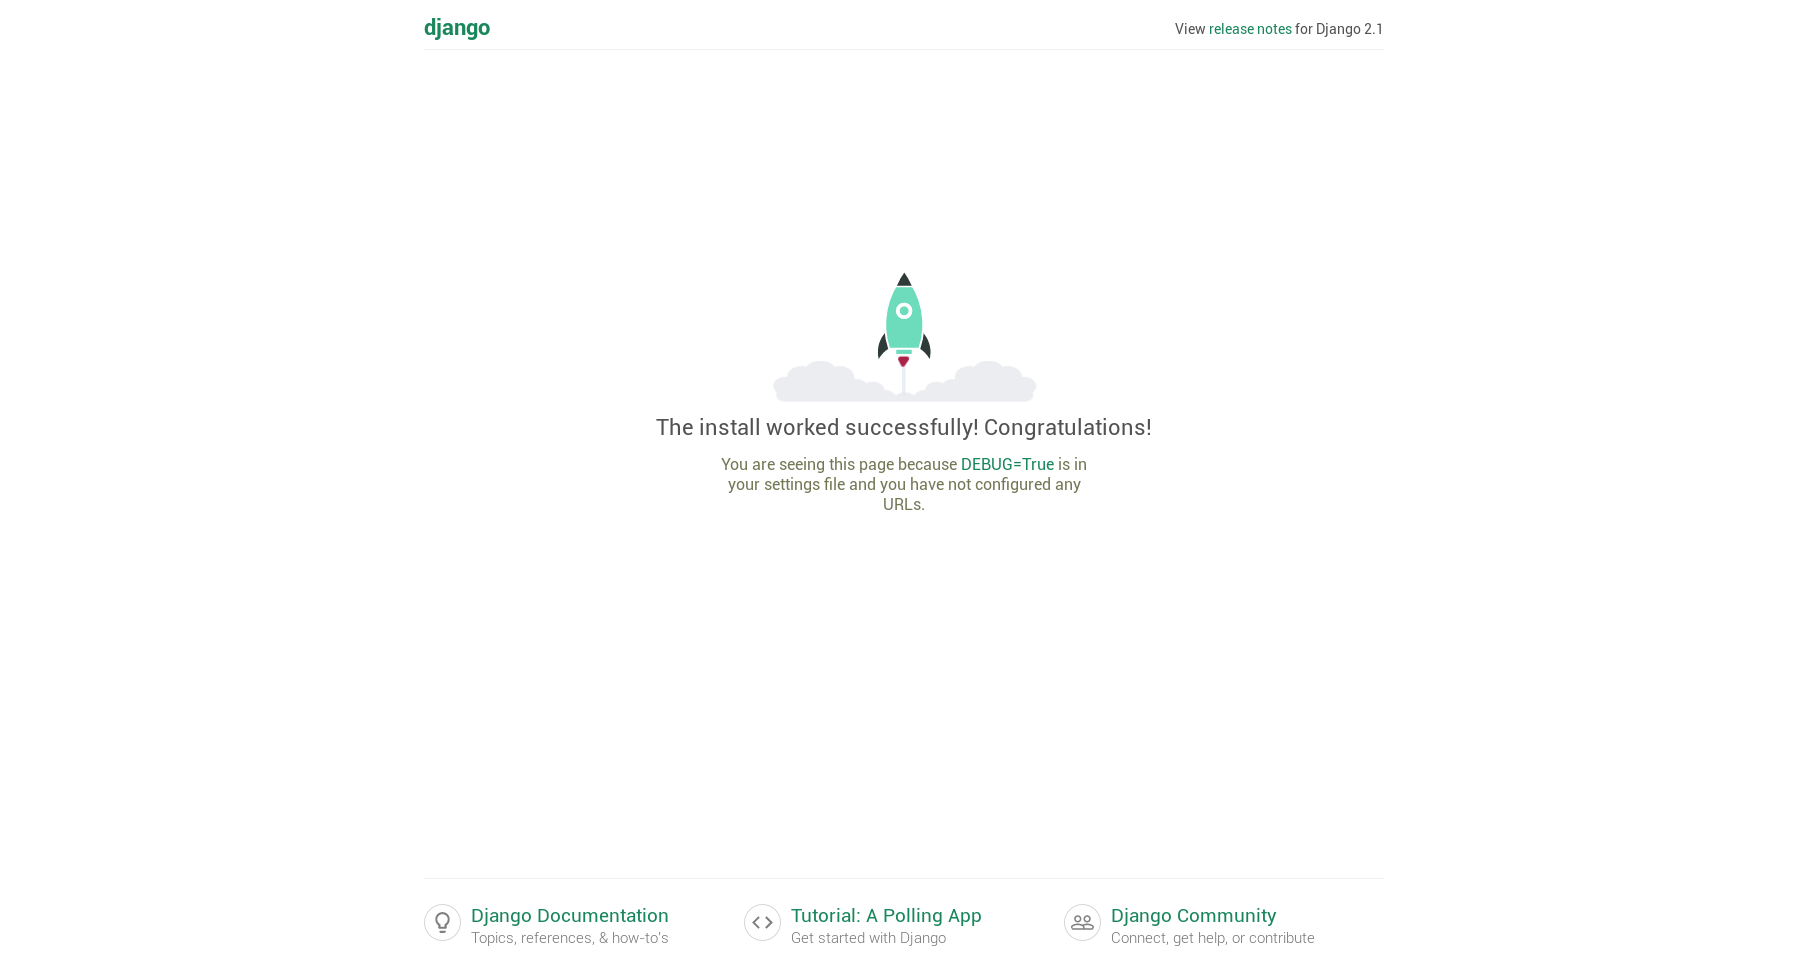
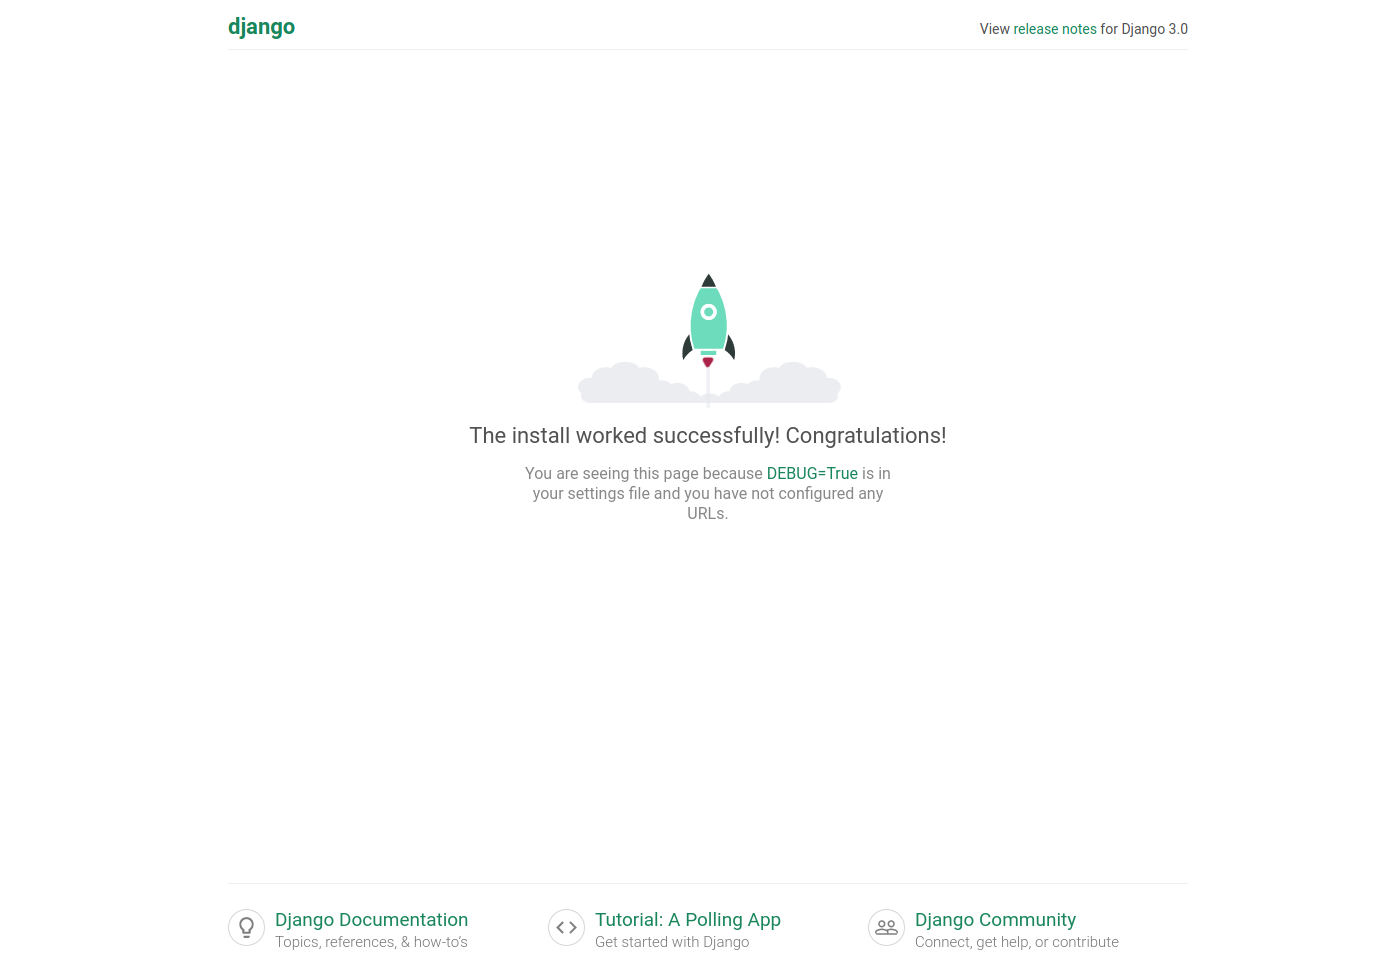
Update post creating a personal blog part 1: setting up the environment

diff --git a/posts/creating-a-personal-blog-part-1-setting-up-the-environment/source code/Blog/myblog/myblog/settings.py b/posts/creating-a-personal-blog-part-1-setting-up-the-environment/source code/Blog/myblog/myblog/settings.py
@@ -1,13 +1,13 @@
 """
 Django settings for myblog project.
 
-Generated by 'django-admin startproject' using Django 2.1.7.
+Generated by 'django-admin startproject' using Django 3.0.4.
 
 For more information on this file, see
-https://docs.djangoproject.com/en/2.1/topics/settings/
+https://docs.djangoproject.com/en/3.0/topics/settings/
 
 For the full list of settings and their values, see
-https://docs.djangoproject.com/en/2.1/ref/settings/
+https://docs.djangoproject.com/en/3.0/ref/settings/
 """
 
 import os
@@ -17,10 +17,10 @@ BASE_DIR = os.path.dirname(os.path.dirname(os.path.abspath(__file__)))
 
 
 # Quick-start development settings - unsuitable for production
-# See https://docs.djangoproject.com/en/2.1/howto/deployment/checklist/
+# See https://docs.djangoproject.com/en/3.0/howto/deployment/checklist/
 
 # SECURITY WARNING: keep the secret key used in production secret!
-SECRET_KEY = 'i@=h6&lk0y$*^_sk=56(kl7v)%435cb69a!eea6zt4hd2+r(f#'
+SECRET_KEY = '_m3-39(6=_x%9x%n%5c1jyc=8tfp(c+f$2(%b7v#+#)=2p+b3f'
 
 # SECURITY WARNING: don't run with debug turned on in production!
 DEBUG = True
@@ -71,7 +71,7 @@ WSGI_APPLICATION = 'myblog.wsgi.application'
 
 
 # Database
-# https://docs.djangoproject.com/en/2.1/ref/settings/#databases
+# https://docs.djangoproject.com/en/3.0/ref/settings/#databases
 
 DATABASES = {
     'default': {
@@ -82,7 +82,7 @@ DATABASES = {
 
 
 # Password validation
-# https://docs.djangoproject.com/en/2.1/ref/settings/#auth-password-validators
+# https://docs.djangoproject.com/en/3.0/ref/settings/#auth-password-validators
 
 AUTH_PASSWORD_VALIDATORS = [
     {
@@ -101,7 +101,7 @@ AUTH_PASSWORD_VALIDATORS = [
 
 
 # Internationalization
-# https://docs.djangoproject.com/en/2.1/topics/i18n/
+# https://docs.djangoproject.com/en/3.0/topics/i18n/
 
 LANGUAGE_CODE = 'en-us'
 
@@ -115,6 +115,6 @@ USE_TZ = True
 
 
 # Static files (CSS, JavaScript, Images)
-# https://docs.djangoproject.com/en/2.1/howto/static-files/
+# https://docs.djangoproject.com/en/3.0/howto/static-files/
 
 STATIC_URL = '/static/'

diff --git a/posts/creating-a-personal-blog-part-1-setting-up-the-environment/source code/Blog/myblog/manage.py b/posts/creating-a-personal-blog-part-1-setting-up-the-environment/source code/Blog/myblog/manage.py
@@ -1,8 +1,10 @@
 #!/usr/bin/env python
+"""Django's command-line utility for administrative tasks."""
 import os
 import sys
 
-if __name__ == '__main__':
+
+def main():
     os.environ.setdefault('DJANGO_SETTINGS_MODULE', 'myblog.settings')
     try:
         from django.core.management import execute_from_command_line
@@ -13,3 +15,7 @@ if __name__ == '__main__':
             "forget to activate a virtual environment?"
         ) from exc
     execute_from_command_line(sys.argv)
+
+
+if __name__ == '__main__':
+    main()

diff --git a/posts/creating-a-personal-blog-part-1-setting-up-the-environment/source code/Blog/myblog/myblog/asgi.py b/posts/creating-a-personal-blog-part-1-setting-up-the-environment/source code/Blog/myblog/myblog/asgi.py
@@ -1,0 +1,16 @@
+"""
+ASGI config for myblog project.
+
+It exposes the ASGI callable as a module-level variable named ``application``.
+
+For more information on this file, see
+https://docs.djangoproject.com/en/3.0/howto/deployment/asgi/
+"""
+
+import os
+
+from django.core.asgi import get_asgi_application
+
+os.environ.setdefault('DJANGO_SETTINGS_MODULE', 'myblog.settings')
+
+application = get_asgi_application()

diff --git a/posts/creating-a-personal-blog-part-1-setting-up-the-environment/source code/Blog/myblog/myblog/urls.py b/posts/creating-a-personal-blog-part-1-setting-up-the-environment/source code/Blog/myblog/myblog/urls.py
@@ -1,7 +1,7 @@
 """myblog URL Configuration
 
 The `urlpatterns` list routes URLs to views. For more information please see:
-    https://docs.djangoproject.com/en/2.1/topics/http/urls/
+    https://docs.djangoproject.com/en/3.0/topics/http/urls/
 Examples:
 Function views
     1. Add an import:  from my_app import views

diff --git a/posts/creating-a-personal-blog-part-1-setting-up-the-environment/source code/Blog/myblog/myblog/wsgi.py b/posts/creating-a-personal-blog-part-1-setting-up-the-environment/source code/Blog/myblog/myblog/wsgi.py
@@ -4,7 +4,7 @@ WSGI config for myblog project.
 It exposes the WSGI callable as a module-level variable named ``application``.
 
 For more information on this file, see
-https://docs.djangoproject.com/en/2.1/howto/deployment/wsgi/
+https://docs.djangoproject.com/en/3.0/howto/deployment/wsgi/
 """
 
 import os

diff --git a/posts/creating-a-personal-blog-part-1-setting-up-the-environment/Creating A Personal Blog Part 1: Setting Up The Environment.md b/posts/creating-a-personal-blog-part-1-setting-up-the-environment/Creating A Personal Blog Part 1: Setting Up The Environment.md
@@ -11,7 +11,7 @@ this post on. Before I continue, let me answer a few questions first.
 Why would you want to develop your own personal blog? Why would you want to have a personal blog anyway? You may wish so
 for many reasons. Sharing your ideas, and knowledge, poetry that you enjoy or write yourself, 
 places you travel to, things you cook, and etc. Well I have to admit that there are ton of social media platforms, where 
-you can do all of the above, and share it with your friends easily. However, having a personal blog is ... It is just 
+you can do all of the above, and share it with your friends easily. However, having a personal blog is ... Well, it is just 
 personal. 
 
 Let me put it in this way. Using a social media platform is similar to living in a building with lots of apartments inside.
@@ -40,13 +40,13 @@ guide for your own situation. Let's begin our journey.
 ## What You Should Expect
 
 In the end of this series, you should have a webpage very similar to the one you are viewing currently. We will use
-Django (version 2.1.7), and Python (3.6) to develop the blog locally. Then we will use Nginx + Gunicorn to deploy the 
+Django (version 3.0.4), and Python (3.8) to develop the blog locally. Then we will use Nginx + Gunicorn to deploy the 
 blog on a Google Cloud Instance. We will get to all of these in time. However, lets first setup our environment to start
 the local development.
 
 ## Setting Up The Environment
 
-I will be using Python 3.6 and Django 2.1.7, and will be developing on Linux platform (Arch Linux 5.0.1). 
+I will be using Python 3.8 and Django 3.0.4, and will be developing on Linux platform (Arch Linux 5.5.7). 
 Any linux environment should do for this series. I expect that you are able to adjust this tutorial for your needs, 
 if you are using Windows.
 
@@ -54,21 +54,21 @@ First step is to determine whether you have python 3 installed on your system. R
 
 `python3 --version`
 
-If the output is **`Python 3.6.x`** then you are good to go. If not you need to install python 3 to your system. You can
+If the output is **`Python 3.8.x`** then you are good to go. If not you need to install python 3 to your system. You can
 follow this [guide](https://docs.python-guide.org/starting/install3/linux/) for doing so on Ubuntu. 
 Also feel free to google it for the operating system you are working on. In the end make sure you have Python 3.6 
-(3.7 is also fine), by running `python3 --version` and getting the **`Python 3.6`** output.  
+(3.6.x or 3.7.x is also fine), by running `python3 --version` and getting the **`Python 3.8.x`** output.  
 
 Now similarly we need to install pip3. Pip is a package manager for python. It makes installing, and maintaining python
 packages extremely easy. So go ahead and try `pip3 --version` on the command line. If you get an output with 
-`(python 3.6)` in the end, you are good to go. Otherwise you need to install pip3 to your system as well. Again here is a 
+`(python 3.8)` in the end, you are good to go. Otherwise you need to install pip3 to your system as well. Again here is a 
 [guide](https://linuxize.com/post/how-to-install-pip-on-ubuntu-18.04/) showing how to do so on Ubuntu.
 
 ### Virtualenv and Virtualenvwrapper
 Virtualenv is a tool to create virtual environments for python. If you run `pip3 list` you will see all of the packages
 installed in your system. When starting a new python project, it is highly recommended to create virtual environments,
 so that you can install packages that are specific to your project, which might be even different versions of the 
-packages installed in your system. In this way, your packages for your project can be kept separate from each other.
+packages installed in your system. In this way, your packages for your projects can be kept separate from each other.
 Virtualenv Wrapper is a tool to easily create and manage virtual environments. We need to install both of these packages
 using pip. So go ahead and install [virtualenv](https://pypi.org/project/virtualenv/) and 
 [virtualenvwrapper](https://virtualenvwrapper.readthedocs.io/en/latest/index.html)
@@ -125,7 +125,7 @@ the virtual environment, run `workon blog-env`, and you should see (blog-env) in
 that you are inside this virtual environment, every time you are executing python files related to this project.
 
 Just to make sure, check that you have the python3 inside the blog-env as well. The command `python --version`
-should give the `Python 3.6.x` output.
+should give the `Python 3.8.x` output.
 
 Congrats! You have achieved a significant amount of work today, and you deserve a pat on the back. However, before we are
 done with today, I feel like we could do a little bit more. I promise it wont take much.
@@ -135,10 +135,15 @@ done with today, I feel like we could do a little bit more. I promise it wont ta
 Make sure that you are inside the blog-env ( (blog-env) should be visible in your terminal). Then install the 
 Django package to your virtual environment.
 
-`pip install django==2.1.7`
+`pip install django==3.0.4`
 
-Since I am using django version 2.1.7 in this tutorial, and I have no idea what version will be out there when you are
-reading this, for us to be in the same page you should also indicate the django version when installing it.
+Since I am using django version 3.0.4 in this tutorial, and I have no idea what version will be out there when you are
+reading this, for us to be in the same page you should also indicate the django version when installing it. 
+
+Important note:
+In the future, a security vulnerability might be found with django version 3.0.4, and if so you should use the most recent
+version of the django for your project, and update the code and configuration accordingly. If you are simply following this
+tutorial to learn django, and will not use this code in deployment, then version 3.0.4 should be fine.
 
 Now create a directory you want to keep your project in, and go to that directory in the command line. 
 For example, if I wanted to create a 'Blog' folder under 'Desktop', I would run the following commands in order.
@@ -156,7 +161,10 @@ Now you should be inside the _Blog_ folder. Then run the following command to cr
 This will create a folder called _myblog_, and inside should be a manage.py file and myblog folder. Change directory into
 the newly created folder, where you will have the manage.py. And execute the manage.py with runserver keyword.
 
-`./manage.py runserver`
+```
+cd myblog
+./manage.py runserver
+```
 
 Output of the command should be similar to this.
 
